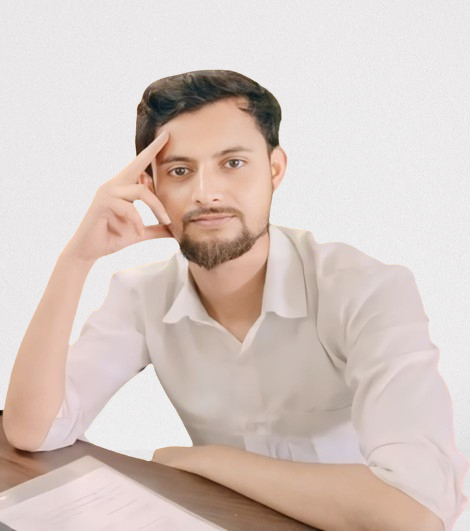
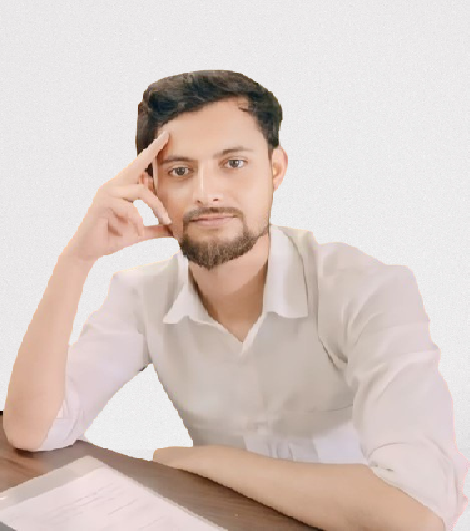
update features

diff --git a/index.html b/index.html
@@ -78,6 +78,7 @@
                 <div class="skill-logo">
                     <img src="./images/html-5.png" alt="html">
                     <img src="./images/css.png" alt="css">
+                    <img src="./images/tailwind.png" alt="css">
                     <img src="./images/js.png" alt="js">
                     <img src="./images/bootstrap.png" alt="bootstrap">
                     <img src="./images/react.png" alt="react">
@@ -121,36 +122,36 @@
 
         <div class="projects-container">
 
-            <div class="projects-box">
+            <div class="projects-box e-commerce">
 
-                <img src="./images//pexels-ofspace-1.jpg" alt="">
+                <img src="https://img.youtube.com/vi/ZF73dpgRrWI/maxresdefault.jpg" alt="">
 
                 <div class="projects-layer">
-                    <h4>Web Design</h4>
-                    <p>Lorem ipsum dolor sit amet consectetur adipisicing elit. Sunt accusamus voluptatem cum sequi aspernatur id?</p>
-                    <a href=""><i class="fa-solid fa-up-right-from-square"></i></a>
+                    <h4>E-Commerce Web</h4>
+                    <p>This project is a fully functional e-commerce website built with ReactJS and Context API for state management.</p>
+                    <a href="https://ecommerceforeverwebsite.netlify.app/"><i class="fa-solid fa-up-right-from-square"></i></a>
                 </div>
 
             </div>
 
             <div class="projects-box">
 
-                <img src="./images/./pexels-sujasen-2.jpg" alt="">
+                <img src="https://cdn.pixabay.com/photo/2022/12/01/01/41/weather-7628056_1280.png" alt="">
 
-                <div class="projects-layer">
-                    <h4>Web Design</h4>
-                    <p>Lorem ipsum dolor sit amet consectetur adipisicing elit. Sunt accusamus voluptatem cum sequi aspernatur id?</p>
-                    <a href=""><i class="fa-solid fa-up-right-from-square"></i></a>
+                <div class="projects-layer weather">
+                    <h4>Weather Web</h4>
+                    <p>The app allows users to quickly check current weather conditions in their location or for any city worldwide.</p>
+                    <a href="https://weatherwebsite75.netlify.app"><i class="fa-solid fa-up-right-from-square"></i></a>
                 </div>
 
             </div>
 
-            <div class="projects-box">
-                <img src="./images//pexels-3motional-3.jpg" alt="">
+            <div class="projects-box calculator">
+                <img src="https://cdn.pixabay.com/photo/2023/03/06/04/26/calculator-7832583_1280.png" alt="">
                 <div class="projects-layer">
-                    <h4>Web Design</h4>
-                    <p>Lorem ipsum dolor sit amet consectetur adipisicing elit. Sunt accusamus voluptatem cum sequi aspernatur id?</p>
-                    <a href=""><i class="fa-solid fa-up-right-from-square"></i></a>
+                    <h4>Calculator</h4>
+                    <p>This project is a fully functional calculator application developed.It allows users to perform basic arithmetic operations.</p>
+                    <a href="https://simple-calculator-app-react.netlify.app"><i class="fa-solid fa-up-right-from-square"></i></a>
                 </div>
             </div>
         </div>    

diff --git a/main.js b/main.js
@@ -61,7 +61,25 @@ readBtn.addEventListener('click', () => {
    }else{
      readBtn.innerText = "Read less"
      readMore.style.display = "block"
-   }
+   }   
+});
 
-   
-})
+let eCommerce = document.querySelector('.e-commerce');
+
+eCommerce.addEventListener('click', () => {
+    window.location.href = 'https://ecommerceforeverwebsite.netlify.app/';
+});
+
+let weather = document.querySelector('.weather');
+
+weather.addEventListener('click', () => {
+    window.location.href = 'https://weatherwebsite75.netlify.app';
+});
+
+
+
+let calculator = document.querySelector('.calculator');
+
+calculator.addEventListener('click', () => {
+    window.location.href = 'https://simple-calculator-app-react.netlify.app';
+});

diff --git a/style.css b/style.css
@@ -267,7 +267,9 @@ span{
     align-items: center;
     text-align: center;
     gap: 2rem;
-    padding: 3rem;
+    padding: 2rem;
+    height: 200px;
+    width: 300px;
     flex-wrap: wrap;
 }
 
@@ -334,7 +336,7 @@ span{
 }
 
 .projects-box:hover .projects-layer{
-    transform: translateY(0);
+    transform: translateY(80px);
 }
 
 .projects-layer h4{
